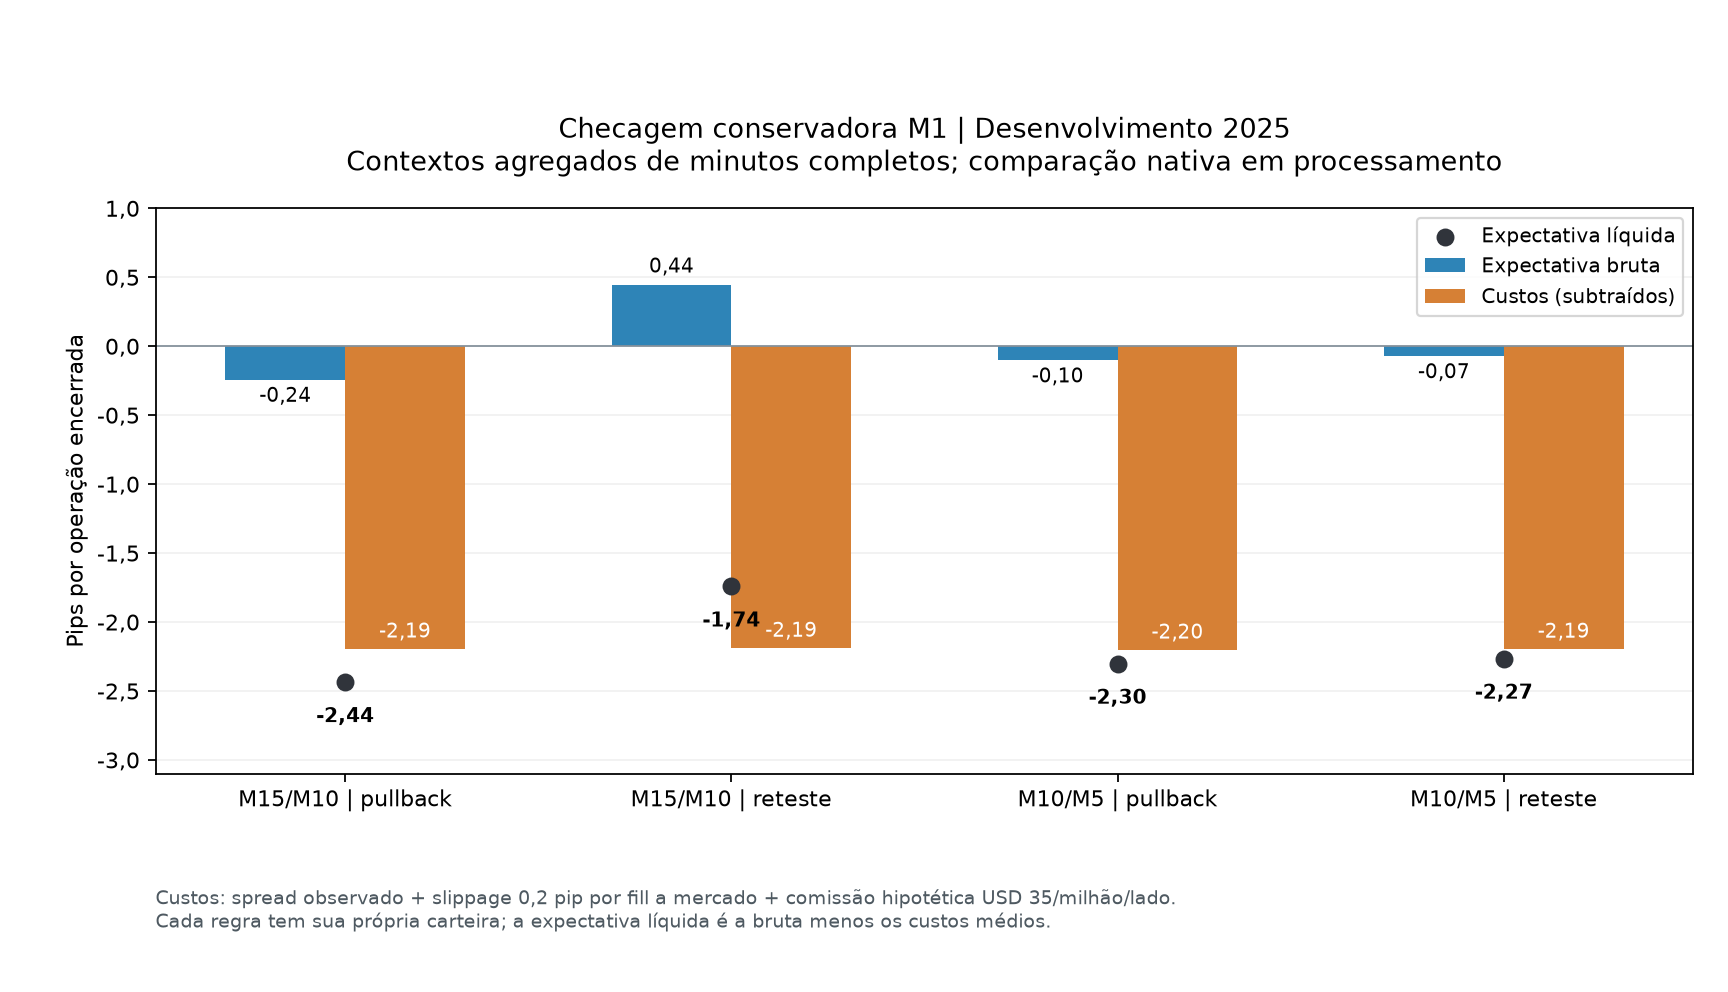
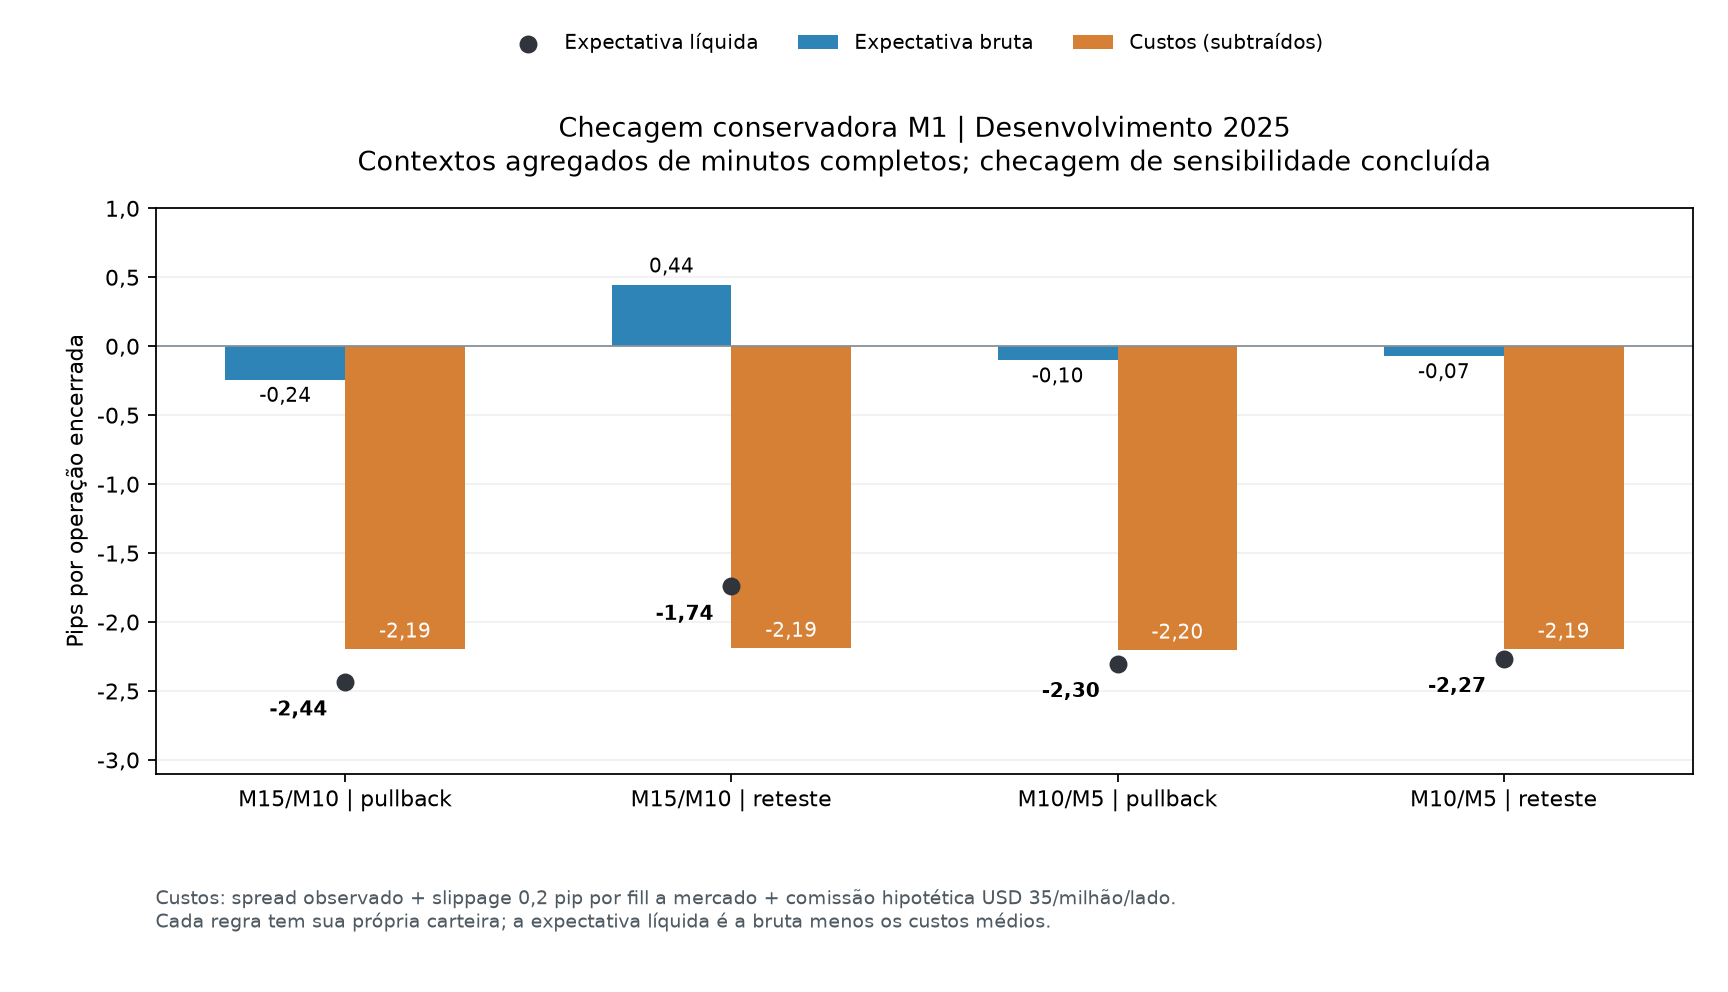
Conclude native M1 context validation without strategy promotion

diff --git a/docs/HIPOTESES_M1_M15_M10.md b/docs/HIPOTESES_M1_M15_M10.md
@@ -1,5 +1,19 @@
 # Entradas M1 com contextos M15/M10 e M10/M5
 
+## Conclusão — 26/10/2026
+
+**Nenhuma das duas hipóteses foi aprovada para ativação, com os gatilhos e
+custos testados.** A comparação principal com contextos nativos terminou.
+M15/M10 e M10/M5 produziram mais operações nos períodos completos de 2026,
+mas todos os seus resultados normais completos foram negativos. Nos cenários
+determináveis com comissão zero, spread e slippage ainda produziram perdas.
+
+Os testes usaram dados congelados até **23/10/2026**, lote 0,01 e posições
+limitadas a 60 minutos. H4/H1 também permitiu operações curtas; o período de
+contexto não transforma, por si só, uma operação em swing trade. A regra de
+produção permanece inalterada. Este resultado avalia estas definições concretas,
+sem demonstrar que qualquer estratégia M1 seja necessariamente inviável.
+
 ## Pergunta e interpretação
 
 Períodos menores podem reagir mais cedo a movimentos intradiários, mas isso
@@ -40,7 +54,7 @@ alinhamento H4 por horário de verão durante o fim de semana fechado. Lacunas
 de negociação continuam inválidas. O mesmo snapshot nativo foi reutilizado e
 a alteração está registrada em `agent_m1_native_protocol_amendment`.
 
-Os dois resultados serão preservados. A versão nativa responde à comparação
+Os dois resultados foram preservados. A versão nativa responde à comparação
 de períodos vista no MT5; a versão agregada mede a sensibilidade à exigência de
 minutos completos. Essa ampliação foi motivada por qualidade dos dados, não
 pela escolha de um resultado mais lucrativo.
@@ -116,6 +130,11 @@ Os resultados de todos os perfis são preservados, inclusive perdas e censuras.
   ao campo spread nativo de outro período, pois a amostragem pode diferir.
 - Protocolo, captura, arquivo normalizado, sinais, seleção e relatório são
   registros separados e auditáveis no PostgreSQL.
+- Dezesseis reaberturas observadas nos meses das mudanças de horário de verão
+  mantiveram o alinhamento do servidor à segunda-feira à meia-noite e à hora
+  de domingo 17h em Nova York após conversão. Não houve filtro prévio por
+  dia/hora. Uma amostra abriu às 17h00, em vez de 17h03. Essa checagem corrobora
+  o perfil histórico escolhido, sem validar individualmente todos os ticks.
 
 ## Reprodução
 
@@ -126,9 +145,11 @@ Os resultados de todos os perfis são preservados, inclusive perdas e censuras.
 .venv/Scripts/python.exe run_m1_native_context_experiment.py --resume NATIVE_PROTOCOL_ID
 ```
 
-`--resume` exige os mesmos hashes de implementação e reutiliza o snapshot,
-não busca um novo período. O `.npy` bruto fica em `data/reports/`, fora do Git;
-replicação exige preservar esse arquivo e o backup PostgreSQL. O arquivo normalizado
+`--resume` exige os mesmos hashes de implementação e reutiliza os snapshots,
+não busca um novo período. Os seis `.npy` brutos ficam em `data/reports/`, fora
+do Git: um M1 (`m1-context-raw-4b39756aa50c.npy`) e cinco de contexto nativo
+(`m1-native-856af733c546-*.npy`, reutilizados pela versão atual). A replicação
+exige preservar esses arquivos e o backup PostgreSQL. O arquivo normalizado
 também é verificado por hash antes do replay.
 
 Este estudo não altera o agente em produção, envia ordens nem treina os pesos
@@ -171,7 +192,7 @@ desenvolvimento e custo médio de 2,19 pips. A mediana das durações ficou entr
 Algumas carteiras sob estresse tiveram exposição censurada por lacuna e seu
 resultado total é indeterminado (`null`), sem substituição por zero nem soma
 de parcelas conhecidas como resultado completo. A frequência comparativa H4/H1
-será avaliada na versão nativa; o aquecimento insuficiente desse controle limita
+foi avaliada na versão nativa; o aquecimento insuficiente desse controle limita
 a comparação na versão conservadora.
 
 A auditoria verificou 96 arquivos declarados de implementação, 63.069 sinais,
@@ -197,16 +218,91 @@ incluem o efeito da indisponibilidade de contexto e exigem essa ressalva.
 
 ### Comparação principal com contextos nativos
 
-O replay do protocolo `35520ec…` está em andamento. A conclusão final sobre
-as hipóteses aguarda esse resultado. O resultado conservador não demonstra
-superioridade universal de H4/H1 nem justifica ativar uma nova regra.
+**Concluída e auditada.** Relatório `agent_m1_native_experiment`:
[1 lines of base64/hex data omitted]
+
+Cada célula mostra **operações encerradas / resultado líquido em USD**, no
+cenário normal. São carteiras separadas, com o mesmo lote 0,01 e capital inicial.
+Não somar as estratégias como se constituíssem uma carteira única.
+
+| Contexto e gatilho | Desenvolvimento 2025 | Jan–jun/2026 | Jul–23/out/2026 |
+|---|---:|---:|---:|
+| M15/M10, M1 — pullback | 386 + 1 censurada / indeterminado | 640 / −123,38 | 410 / −93,13 |
+| M15/M10, M1 — rompimento/reteste | 436 / −94,88 | 415 / −89,87 | 210 / −44,68 |
+| M10/M5, M1 — pullback | 389 + 1 censurada / indeterminado | 640 / −130,59 | 415 / −85,94 |
+| M10/M5, M1 — rompimento/reteste | 475 / −104,15 | 442 / −88,07 | 232 / −48,41 |
+| H4/H1, M1 — pullback | 428 / −99,87 | 403 / −86,95 | 292 / −78,65 |
+| H4/H1, M1 — rompimento/reteste | 240 / −46,07 | 224 / −46,51 | 110 / −23,16 |
+| H4/H1, M5 — pullback | 131 + 1 censurada / indeterminado | 322 / −56,71 | 251 / −60,80 |
+| H4/H1, M5 — rompimento/reteste | 119 / −9,33 | 120 / −24,95 | 67 / −15,89 |
+
+Nenhuma hipótese curta cumpriu os critérios de desenvolvimento: os pullbacks
+tinham exposição censurada e os rompimentos tinham resultado líquido negativo.
+A escolha foi congelada como `null` antes das verificações. Nenhuma substituição
+posterior de vencedora ou ativação foi realizada. Os controles H4/H1 também
+não apresentaram uma estratégia lucrativa validada.
+
+As três censuras normais de desenvolvimento foram reproduzidas exatamente em
+uma auditoria adicional (`agent_m1_native_censor_audit`, chave do relatório).
+Os dois pullbacks curtos tinham posição aberta durante a ausência dos M1 de
+16/10/2025, 09h21–09h24 UTC. O controle H4/H1 com gatilho M5 estava exposto
+durante a lacuna de 05/09/2025, 16h24–16h34 UTC. As carteiras foram bloqueadas
+e seus resultados totais mantidos indeterminados; nenhuma saída favorável foi
+inventada para completar o histórico.
+
+#### Frequência, acerto e custos
+
+- Em janeiro–junho, os pullbacks M1 curtos tiveram **640 entradas**, contra
+  403 com contexto H4/H1 e gatilho M1, e 322 com H4/H1 e gatilho M5. O limite
+  de cinco operações/dia continuou valendo em todas as carteiras.
+- Nesse mesmo período, o acerto do pullback foi 25,31% para M15/M10 e 23,75%
+  para M10/M5. O controle H4/H1 teve 24,81% com M1 e 35,71% com M5.
+  Esses percentuais são resultados observados e não significam vantagem futura.
+- Em julho–outubro, os pullbacks curtos fizeram 410 e 415 operações, contra
+  292 e 251 nos dois controles. Todos tiveram prejuízo líquido.
+- Nos períodos completos de 2026, as quatro hipóteses curtas tiveram custo
+  médio de **2,18–2,21 pips por operação**, enquanto a expectativa bruta ficou
+  entre −0,09 e +0,28 pip. As medianas de duração ficaram entre 8 e 17,5 minutos.
+  O movimento capturado não pagou os custos modelados.
+- Todos os resultados normais completos e todos os resultados completos com
+  comissão zero foram negativos, incluindo os controles. Spread e slippage
+  permanecem presentes na sensibilidade de comissão zero.
+
+![Expectativa bruta, custos e expectativa líquida com contextos nativos no período de verificação](audits/m1-native-costs.png)
+
+#### Robustez e comparação entre as hipóteses
+
+Todas as diferenças semanais determináveis de P&L entre M15/M10 e M10/M5
+tiveram intervalos descritivos de 95% que incluíram zero. Por exemplo, no
+rompimento/reteste, a diferença foi +USD 9,27 no desenvolvimento, −USD 1,80
+na verificação e +USD 3,72 no período final; os intervalos respectivos foram
+[−5,57; 23,11], [−14,16; 12,10] e [−2,93; 9,48]. Não apareceu superioridade
+financeira consistente de uma hipótese curta sobre a outra.
+
+As carteiras sob estresse também não qualificaram as hipóteses. Algumas foram
+censuradas por lacunas de cotação e permanecem indeterminadas. Uma célula
+isolada positiva do controle H4/H1 com M1 e rompimento, no estresse final
+(USD 1,95), coexistiu com prejuízo normal (−USD 23,16) e não passou pela seleção.
+O estresse altera quais entradas são aceitas pelos limites de risco; portanto,
+não representa simplesmente subtrair mais custos dos mesmos negócios.
+
+A auditoria principal conferiu **97 arquivos declarados de implementação,
+98.996 sinais, 96 carteiras e 30.656 resultados financeiros encerrados
+pareados**. Esses resultados de cenários não são experiências independentes.
+A dependência de seleção/estatística foi verificada adicionalmente. O arquivo
+de execução M1, os contextos nativos e os relatórios permanecem congelados
+no PostgreSQL e nos snapshots com hash.
+
+**Decisão:** encerrar este experimento sem promover as duas configurações.
+Mais entradas não produziu vantagem após custos. A próxima pesquisa exigirá
+uma hipótese nova e explicitamente registrada; os parâmetros deste teste
+não serão ajustados retroativamente para procurar uma vitória.
 
 ### Auditoria reproduzível
 
 ```powershell
 .venv/Scripts/python.exe verify_m1_context_results.py cad0945c77a3f307ca46e7757096d73f3312de7f514c1a3c99a663973402e9f8
-# Quando o relatório nativo estiver disponível:
-.venv/Scripts/python.exe verify_m1_context_results.py NATIVE_REPORT_ID --native
+.venv/Scripts/python.exe verify_m1_context_results.py 7cacbfdcf469f5492e81e4f771cf6fae2ff03d761cf7797589640fdf990711ab --native
 ```
 
 O auditor lê registros selados e preserva seu resultado no PostgreSQL como

diff --git a/README.md b/README.md
@@ -71,6 +71,8 @@ O [teste completo de horários e outras famílias H1](docs/TESTE_DE_HORARIOS_H1.
 refaz as carteiras e mantém comparação futura em simulação; nenhuma regra nova foi aprovada.
 O [experimento de entradas M1 com contextos M15/M10 e M10/M5](docs/HIPOTESES_M1_M15_M10.md)
 compara os dois contextos menores e controles H4/H1 com os mesmos custos e duração máxima.
+O estudo foi concluído sem aprovação das novas configurações: houve mais entradas,
+mas nenhuma vantagem validada após custos. A regra em produção permanece inalterada.
 
 Para comparar H1 com H4+H1 no maior catálogo histórico compatível já congelado,
 execute `python run_trend_experiment.py`. O relatório é gravado no PostgreSQL
